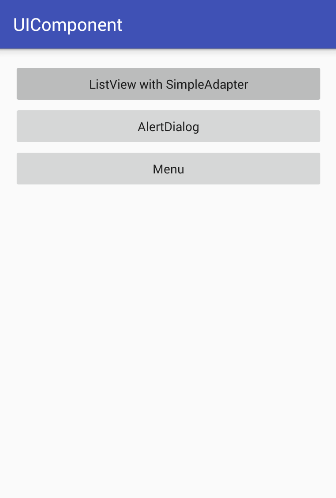
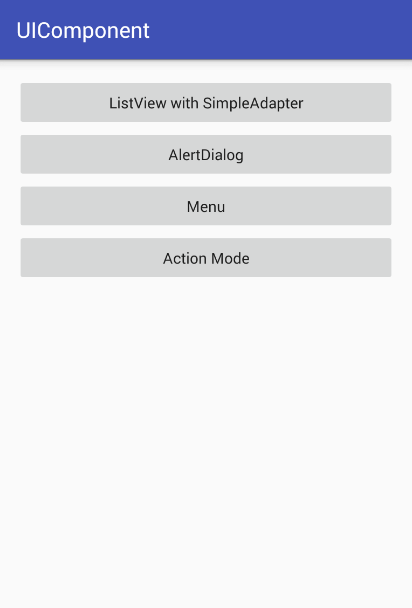
添加Menu和ActionMode
添加Menu和ActionMode

diff --git a/Lab3/UIComponent/app/src/main/java/com/example/uicomponent/ActionModeActivity.java b/Lab3/UIComponent/app/src/main/java/com/example/uicomponent/ActionModeActivity.java
@@ -1,0 +1,89 @@
+package com.example.uicomponent;
+
+import android.os.Bundle;
+import android.support.v7.app.AppCompatActivity;
+import android.support.v7.view.ActionMode;
+import android.view.MenuItem;
+import android.view.View;
+import android.widget.AdapterView;
+import android.widget.ListView;
+
+import java.util.ArrayList;
+import java.util.List;
+
+/**
+ * Created by peige on 2017/4/5.
+ */
+
+public class ActionModeActivity extends AppCompatActivity
+        implements ListView.OnItemLongClickListener {
+
+    private List<Animal> mItemList = new ArrayList<>();
+    int cnt = 0;
+
+    @Override
+    protected void onCreate(Bundle savedInstanceState) {
+        super.onCreate(savedInstanceState);
+        setContentView(R.layout.activity_action_mode);
+        startSupportActionMode(mCallback);
+        initItem();
+        ActionmodeItemAdapter actionModeItemAdapter = new ActionmodeItemAdapter(ActionModeActivity
+                .this, R.layout.item_action_mode, mItemList);
+        ListView listView = (ListView) findViewById(R.id.action_mode_list_view);
+        listView.setAdapter(actionModeItemAdapter);
+        listView.setOnItemLongClickListener(this);
+
+    }
+
+    private ActionMode.Callback mCallback = new ActionMode.Callback() {
+        @Override
+        public boolean onCreateActionMode(ActionMode mode, android.view.Menu menu) {
+            mode.setTitle(cnt + " selected");
+            getMenuInflater().inflate(R.menu.action_mode, menu);
+            return true;
+        }
+
+        @Override
+        public boolean onPrepareActionMode(ActionMode mode, android.view.Menu menu) {
+            mode.setTitle(cnt + " selected");
+            return false;
+        }
+
+        @Override
+        public boolean onActionItemClicked(ActionMode mode, MenuItem item) {
+            mode.setTitle(cnt + " selected");
+            return false;
+        }
+
+        @Override
+        public void onDestroyActionMode(ActionMode mode) {
+        }
+    };
+
+    private void initItem() {
+        Animal one = new Animal("1", R.mipmap.ic_launcher);
+        Animal two = new Animal("22", R.mipmap.ic_launcher);
+        Animal three = new Animal("333", R.mipmap.ic_launcher);
+        Animal four = new Animal("4444", R.mipmap.ic_launcher);
+        Animal five = new Animal("55555", R.mipmap.ic_launcher);
+        Animal six = new Animal("666666", R.mipmap.ic_launcher);
+        Animal seven = new Animal("7777777", R.mipmap.ic_launcher);
+        mItemList.add(one);
+        mItemList.add(two);
+        mItemList.add(three);
+        mItemList.add(four);
+        mItemList.add(five);
+        mItemList.add(six);
+        mItemList.add(seven);
+
+    }
+
+
+    @Override
+    public boolean onItemLongClick(AdapterView<?> parent, View view, int position, long id) {
+        view.setBackgroundColor(getResources().getColor(R.color.colorPrimary));
+        cnt++;
+        return false;
+    }
+
+}

diff --git a/Lab3/UIComponent/app/src/main/java/com/example/uicomponent/MenuAcitvity.java b/Lab3/UIComponent/app/src/main/java/com/example/uicomponent/MenuAcitvity.java
@@ -1,0 +1,57 @@
+package com.example.uicomponent;
+
+import android.os.Bundle;
+import android.support.annotation.Nullable;
+import android.support.v7.app.AppCompatActivity;
+import android.view.Menu;
+import android.view.MenuItem;
+import android.widget.TextView;
+import android.widget.Toast;
+
+/**
+ * Created by peige on 2017/4/5.
+ */
+
+public class MenuAcitvity extends AppCompatActivity {
+
+    TextView tvMsg;
+
+    @Override
+    protected void onCreate(@Nullable Bundle savedInstanceState) {
+        super.onCreate(savedInstanceState);
+        setContentView(R.layout.activity_menu);
+        tvMsg = (TextView) findViewById(R.id.menu_text);
+    }
+
+    @Override
+    public boolean onCreateOptionsMenu(Menu menu) {
+        getMenuInflater().inflate(R.menu.menu1, menu);
+        return true;
+    }
+
+    @Override
+    public boolean onOptionsItemSelected(MenuItem item) {
+        switch (item.getItemId()) {
+            case R.id.one:
+                tvMsg.setTextSize(10);
+                break;
+            case R.id.two:
+                tvMsg.setTextSize(20);
+                break;
+            case R.id.three:
+                tvMsg.setTextSize(30);
+                break;
+            case R.id.dark:
+                tvMsg.setTextColor(0xFF000000);
+                break;
+            case R.id.red:
+                tvMsg.setTextColor(0xFFFF0000);
+                break;
+            case R.id.men_normalMenu:
+                Toast.makeText(this, "You clicked menu", Toast.LENGTH_SHORT).show();
+                break;
+        }
+        return true;
+    }
+
+}

diff --git a/Lab3/UIComponent/app/src/main/java/com/example/uicomponent/MainActivity.java b/Lab3/UIComponent/app/src/main/java/com/example/uicomponent/MainActivity.java
@@ -14,6 +14,7 @@ public class MainActivity extends AppCompatActivity implements View.OnClickListe
     Button btn_listView;
     Button btn_alertDialog;
     Button btn_menu;
+    Button btn_actionMode;
 
     @Override
     protected void onCreate(Bundle savedInstanceState) {
@@ -29,6 +30,8 @@ public class MainActivity extends AppCompatActivity implements View.OnClickListe
         btn_alertDialog.setOnClickListener(this);
         btn_menu = (Button) findViewById(R.id.btn_menu);
         btn_menu.setOnClickListener(this);
+        btn_actionMode = (Button) findViewById(R.id.btn_action_mode);
+        btn_actionMode.setOnClickListener(this);
     }
 
     @Override
@@ -61,8 +64,14 @@ public class MainActivity extends AppCompatActivity implements View.OnClickListe
 
             case R.id.btn_menu:
             {
-                //Intent intent = new Intent(this, ListViewActivity.class);
-                //startActivity(intent);
+                Intent intent = new Intent(this, MenuAcitvity.class);
+                startActivity(intent);
+            } break;
+
+            case R.id.btn_action_mode:
+            {
+                Intent intent = new Intent(this, ActionModeActivity.class);
+                startActivity(intent);
             } break;
         }
     }

diff --git a/Lab3/UIComponent/app/src/main/java/com/example/uicomponent/ActionmodeItemAdapter.java b/Lab3/UIComponent/app/src/main/java/com/example/uicomponent/ActionmodeItemAdapter.java
@@ -1,0 +1,34 @@
+package com.example.uicomponent;
+
+import android.content.Context;
+import android.view.LayoutInflater;
+import android.view.View;
+import android.view.ViewGroup;
+import android.widget.ArrayAdapter;
+import android.widget.ImageView;
+import android.widget.TextView;
+
+import java.util.List;
+
+
+public class ActionmodeItemAdapter extends ArrayAdapter<Animal> {
+    private int resourseId;
+
+    public ActionmodeItemAdapter(Context mContext, int textViewResourseId, List<Animal> objects) {
+        super(mContext, textViewResourseId, objects);
+        resourseId = textViewResourseId;
+    }
+
+
+    @Override
+    public View getView(int position, View convertView, ViewGroup parent) {
+        Animal item = getItem(position);
+        View view = LayoutInflater.from(getContext()).inflate(resourseId, parent, false);
+        ImageView imageView = (ImageView) view.findViewById(R.id.tv_actionmode_image);
+        TextView textView = (TextView) view.findViewById(R.id.tv_actionmode_text);
+
+        imageView.setImageResource(item.getImageId());
+        textView.setText(item.getName());
+        return view;
+    }
+}

diff --git a/Lab3/UIComponent/README.md b/Lab3/UIComponent/README.md
@@ -10,3 +10,10 @@
 ![](https://github.com/linpeiyou/Labs/blob/master/Lab3/UIComponent/image/alertdialog.png)
 ### AlertDialog clicked
 ![](https://github.com/linpeiyou/Labs/blob/master/Lab3/UIComponent/image/alertdialog_toast.png)
+### Menu
+![](https://github.com/linpeiyou/Labs/blob/master/Lab3/UIComponent/image/menu1.png)
+![](https://github.com/linpeiyou/Labs/blob/master/Lab3/UIComponent/image/menu2.png)
+![](https://github.com/linpeiyou/Labs/blob/master/Lab3/UIComponent/image/menu3.png)
+### ActionMode
+![](https://github.com/linpeiyou/Labs/blob/master/Lab3/UIComponent/image/action_mode1.png)
+![](https://github.com/linpeiyou/Labs/blob/master/Lab3/UIComponent/image/action_mode2.png)
